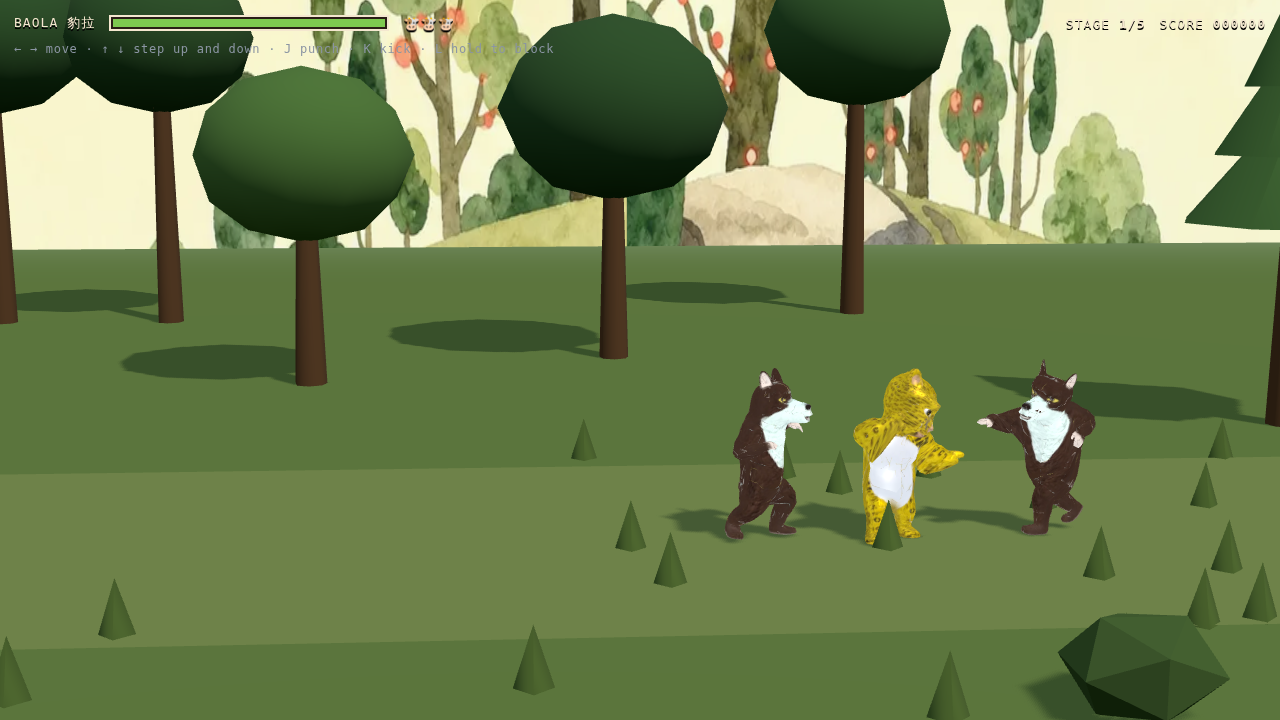
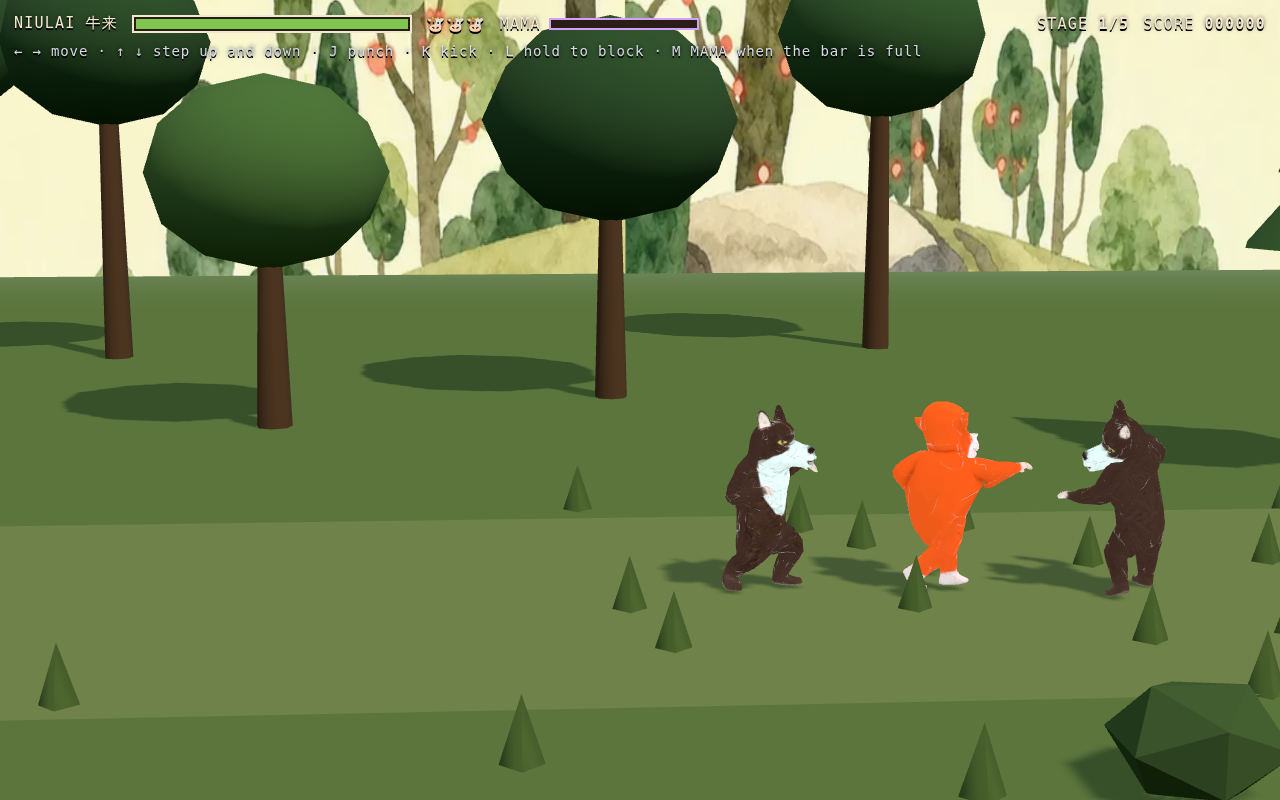
Larger, and legible against what is behind it
Every small size on screen goes up two points or so: the HUD labels, the
control hint, the roster's names, blurbs and key prompts, the foot line,
the music switch, the loading text and the restart line. The banner
headline goes up as well, and the cards widen to 234px so the blurbs do
not gain a line.

Making the text bigger showed up something size alone would not fix. The
control hint was grey with no shadow, over a sky that is nearly white
and trees that are nearly black — invisible against both, and the first
thing a new player is supposed to read. It is light now with a hard drop
and a soft halo, which is the only combination that survives either
background, and the HUD labels get the same. The winning banner is gold
on a cream sky, near enough the same value to sit flat on it, so it
gains a halo too.

Store art and the README images are regenerated from the new layout.

Claude-Session: https://claude.ai/code/session_01DQ7hxSw21dqN5ATT5EjESW

diff --git a/index.html b/index.html
@@ -17,25 +17,29 @@
   #hud { position: fixed; inset: 0; pointer-events: none; padding: 14px;
          display: flex; flex-direction: column; gap: 10px; }
   .row { display: flex; align-items: center; gap: 14px; }
-  .bar { width: min(38vw, 280px); height: 16px; border: 2px solid #f4e7cf;
+  .bar { width: min(38vw, 280px); height: 18px; border: 2px solid #f4e7cf;
          background: #2a1d16; padding: 2px; }
   .bar > i { display: block; height: 100%; width: 100%; background: #7ec850;
              transition: width 120ms linear; }
   .bar > i.low { background: #d9483b; }
-  .label { color: #f4e7cf; font-size: 13px; letter-spacing: .08em; text-shadow: 0 2px 0 #000; }
+  .label { color: #f4e7cf; font-size: 15px; letter-spacing: .08em;
+           white-space: nowrap; text-shadow: 0 2px 0 #000, 0 0 4px rgba(0,0,0,.6); }
   .spacer { flex: 1; }
 
   #banner { position: fixed; inset: 0; display: grid; place-items: center;
             align-content: center; gap: 18px;
-            color: #ffd76a; font-size: clamp(22px, 5vw, 54px); letter-spacing: .1em;
-            text-shadow: 0 4px 0 #000; pointer-events: none; text-align: center; }
-  #banner .again { color: #f4e7cf; font-size: 14px; letter-spacing: .18em;
-                   text-shadow: 0 2px 0 #000; }
+            color: #ffd76a; font-size: clamp(26px, 5.6vw, 60px); letter-spacing: .1em;
+            /* Gold on a cream sky is nearly the same value. The hard drop makes
+               the shape; the soft one underneath separates it from the sky. */
+            text-shadow: 0 4px 0 #000, 0 0 14px rgba(0, 0, 0, .8);
+            pointer-events: none; text-align: center; }
+  #banner .again { color: #f4e7cf; font-size: 17px; letter-spacing: .18em;
+                   text-shadow: 0 2px 0 #000, 0 0 6px rgba(0, 0, 0, .85); }
   /* A win has something to look at underneath it, so the words move out of the
      middle of the picture and let the hero have it. */
   #banner.won { align-content: start; padding-top: 7vh; }
   #loading { position: fixed; inset: 0; display: grid; place-items: center;
-             color: #f4e7cf; background: #10141a; font-size: 15px; letter-spacing: .1em; }
+             color: #f4e7cf; background: #10141a; font-size: 17px; letter-spacing: .1em; }
   /* An id selector outranks the browser's own [hidden] rule, so setting
      .hidden on these would otherwise change nothing and leave the loading
      screen sitting on top of a running game. */
@@ -70,28 +74,28 @@
   #select h1 { color: #f4e7cf; font-size: clamp(24px, 4vw, 40px); margin: 0 0 2px;
                letter-spacing: .08em; }
   #select h1 span { color: #ffd76a; }
-  #select p { color: #8b95a3; font-size: 13px; letter-spacing: .1em; margin: 0 0 14px; }
-  #select .foot { margin-top: 18px; font-size: 11px; }
+  #select p { color: #8b95a3; font-size: 15px; letter-spacing: .1em; margin: 0 0 14px; }
+  #select .foot { margin-top: 18px; font-size: 13px; }
   /* The music switch. Small, out of the way of the roster, and readable from
      across the room because it is the one control on this screen that is not a
      character. */
   #music { margin-top: 14px; background: none; border: 2px solid #39424f;
-           border-radius: 999px; color: #8b95a3; font: inherit; font-size: 11px;
+           border-radius: 999px; color: #8b95a3; font: inherit; font-size: 13px;
            letter-spacing: .16em; padding: 7px 16px; cursor: pointer; }
   #music:hover, #music:focus-visible { border-color: #ffd76a; color: #ffd76a; outline: none; }
   #music[aria-pressed="false"] { color: #5d6773; border-color: #2b323c; }
   #roster { display: flex; gap: 18px; flex-wrap: wrap; justify-content: center; }
   /* Each card carries its own little renderer, so the roster shows the actual
      models rather than art that could drift from them. */
-  #roster button { width: 210px; background: #1b2028; border: 2px solid #39424f;
+  #roster button { width: 234px; background: #1b2028; border: 2px solid #39424f;
                    border-radius: 12px; padding: 12px; color: #f4e7cf; font: inherit;
                    cursor: pointer; display: grid; justify-items: center; gap: 6px; }
   #roster button:hover, #roster button:focus-visible { border-color: #ffd76a; outline: none; }
   #roster canvas { width: 168px; height: 168px; display: block; }
-  #roster .name { font-size: 15px; letter-spacing: .06em; }
-  #roster .zh { color: #ffd76a; font-size: 13px; }
-  #roster .blurb { color: #8b95a3; font-size: 11px; line-height: 1.5; min-height: 2.6em; }
-  #roster .key { color: #5d6773; font-size: 10px; letter-spacing: .14em; }
+  #roster .name { font-size: 18px; letter-spacing: .06em; }
+  #roster .zh { color: #ffd76a; font-size: 15px; }
+  #roster .blurb { color: #8b95a3; font-size: 13px; line-height: 1.5; min-height: 2.6em; }
+  #roster .key { color: #5d6773; font-size: 12px; letter-spacing: .14em; }
 
   #pad { position: fixed; inset: auto 0 0 0; padding: 18px;
          display: flex; justify-content: space-between; pointer-events: none; }
@@ -102,7 +106,11 @@
   #pad button:active { background: #f4e7cf; color: #2a1d16; }
   #pad button[hidden] { display: none; }
   #padpower { border-color: #d1a0ff; color: #d1a0ff; }
-  .hint { color: #8b95a3; font-size: 12px; letter-spacing: .06em; }
+  /* The hint sits over the sky, which is nearly white, and over trees, which
+     are nearly black. Grey with no shadow disappeared into both. Light text
+     with a hard dark shadow is the only thing that reads on either. */
+  .hint { color: #d3dae3; font-size: 14px; letter-spacing: .06em;
+          text-shadow: 0 2px 0 #000, 0 0 4px rgba(0,0,0,.7); }
   /* A keyboard makes the on-screen pad redundant, and it covers the ground. */
   @media (hover: hover) and (pointer: fine) { #pad { display: none; } }
 </style>
